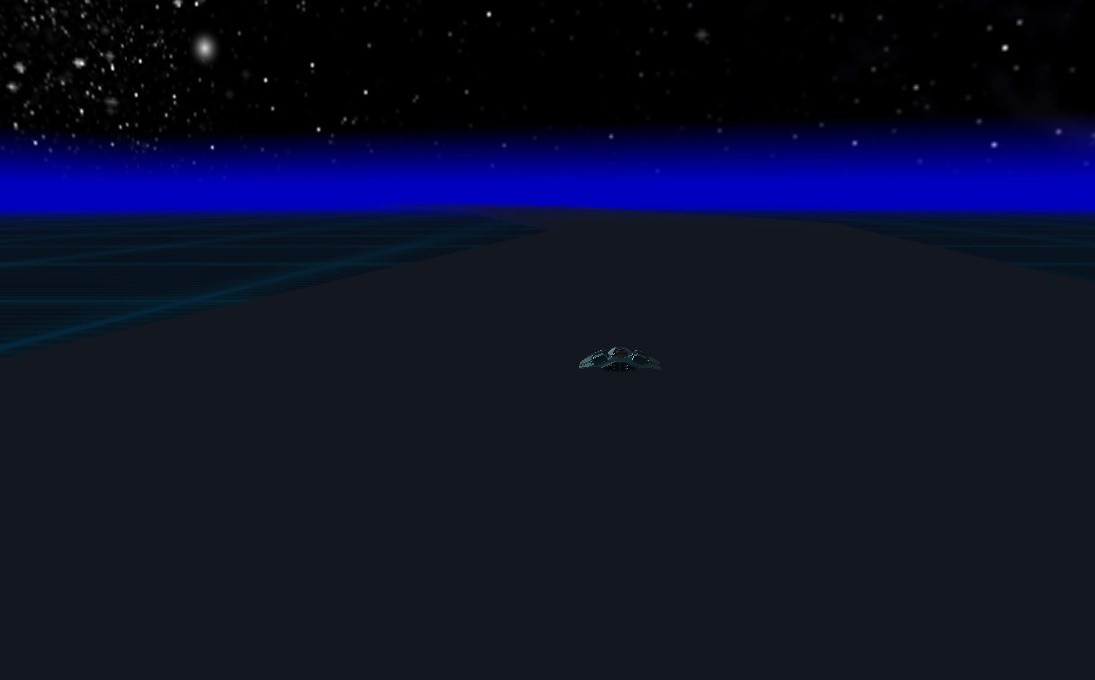
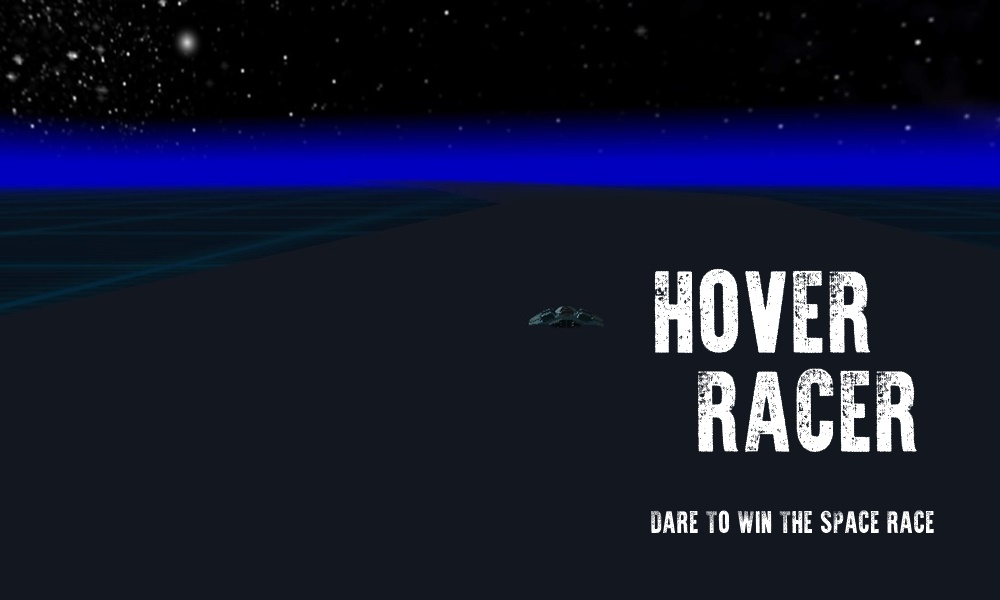
Insert game title and caption

Changed region(s): [[0.651, 0.45, 0.93, 0.75], [0.651, 0.84, 0.93, 0.9]]

diff --git a/src/userInterface/GameMenu.java b/src/userInterface/GameMenu.java
@@ -1,4 +1,8 @@
 package userInterface;
+import java.io.IOException;
+import java.io.InputStream;
+import java.nio.file.Files;
+import java.nio.file.Paths;
 import java.util.ArrayList;
 
 import audioEngine.AudioMaster;
@@ -44,10 +48,25 @@ public class GameMenu extends Parent {
 		
 		//initial window
 		initialWindow.setTranslateX(100);
-		initialWindow.setTranslateY(170);
+		initialWindow.setTranslateY(180);
 		initialWindow.setAlignment(Pos.CENTER);
         initialWindow.setHgap(10);
         initialWindow.setVgap(10);
+        
+        TextStyle hover = new TextStyle ("HOVER", 90);
+		Text hoverText = hover.getTextStyled();
+		hoverText.setX(650);
+		hoverText.setY(300);
+		
+		TextStyle racer = new TextStyle ("RACER", 90);
+		Text racerText = racer.getTextStyled();
+		racerText.setX(740);
+		racerText.setY(380);
+		
+		TextStyle caption = new TextStyle ("DARE TO WIN THE SPACE RACE", 29);
+		Text captionText = caption.getTextStyled();
+		captionText.setX(650);
+		captionText.setY(450);
 		
 		//settings
 		settingsWindow.setTranslateX(700);
@@ -79,6 +98,7 @@ public class GameMenu extends Parent {
 			
 			// connect to the server
 			getChildren().add(connectMultiWindow);
+			getChildren().removeAll(hoverText, racerText, captionText);
 			
 			TranslateTransition trans = new TranslateTransition(Duration.seconds(0.25), initialWindow);
 			trans.setToX(initialWindow.getTranslateX() - OFFSET);
@@ -90,6 +110,7 @@ public class GameMenu extends Parent {
 			trans1.play();
 			trans.setOnFinished(evt -> {
 				getChildren().remove(initialWindow);
+				
 			});
 		});
 		
@@ -98,6 +119,7 @@ public class GameMenu extends Parent {
 			// enter the game with the computer-controlled players
 			
 			getChildren().add(singleGameWindow);
+			getChildren().removeAll(hoverText, racerText, captionText);
 			
 			TranslateTransition trans = new TranslateTransition(Duration.seconds(0.25), initialWindow);
 			trans.setToX(initialWindow.getTranslateX() - OFFSET);
@@ -116,6 +138,7 @@ public class GameMenu extends Parent {
 		btnOptions.setOnMouseClicked(event -> {
 			
 			getChildren().add(settingsWindow);
+			getChildren().removeAll(hoverText, racerText, captionText);
 			
 			TranslateTransition trans = new TranslateTransition(Duration.seconds(0.25), initialWindow);
 			trans.setToX(initialWindow.getTranslateX() - OFFSET);
@@ -155,6 +178,7 @@ public class GameMenu extends Parent {
 			trans1.play();
 			trans.setOnFinished(evt -> {
 				getChildren().remove(settingsWindow);
+				getChildren().addAll(hoverText, racerText, captionText);
 			});
 		});
 		
@@ -174,6 +198,7 @@ public class GameMenu extends Parent {
 			trans1.play();
 			trans.setOnFinished(evt -> {
 				getChildren().remove(connectMultiWindow);
+				getChildren().addAll(hoverText, racerText, captionText);
 			});
 		});
 		
@@ -192,6 +217,8 @@ public class GameMenu extends Parent {
 			trans1.play();
 			trans.setOnFinished(evt -> {
 				getChildren().remove(singleGameWindow);
+				getChildren().addAll(hoverText, racerText, captionText);
+				
 			});
 		});
 		
@@ -355,7 +382,7 @@ public class GameMenu extends Parent {
 		//create a game room by single player
 		singleGameWindow.getChildren().addAll(createGameRoom, btnBackSingle);
 		
-		getChildren().addAll(initialWindow);
+		getChildren().addAll(initialWindow, hoverText, racerText, captionText);
 		
 		//trying to improve the speed of TranslateTransition
 		this.setCache(true);

diff --git a/src/userInterface/MainMenu.java b/src/userInterface/MainMenu.java
@@ -35,7 +35,7 @@ public class MainMenu extends Application {
 		root.setPrefSize(1000, 600);
 
 		// get file from path
-		InputStream is = Files.newInputStream(Paths.get("res/img/hover-racer.jpg"));
+		InputStream is = Files.newInputStream(Paths.get("res/img/hover-racerSimple.jpg"));
 		Image background = new Image(is);
 		is.close();
 
